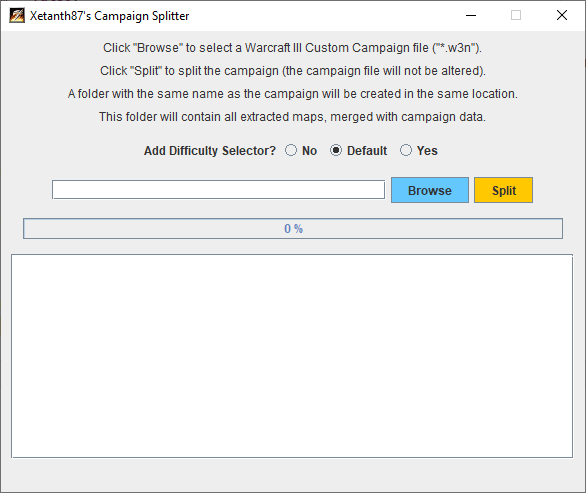
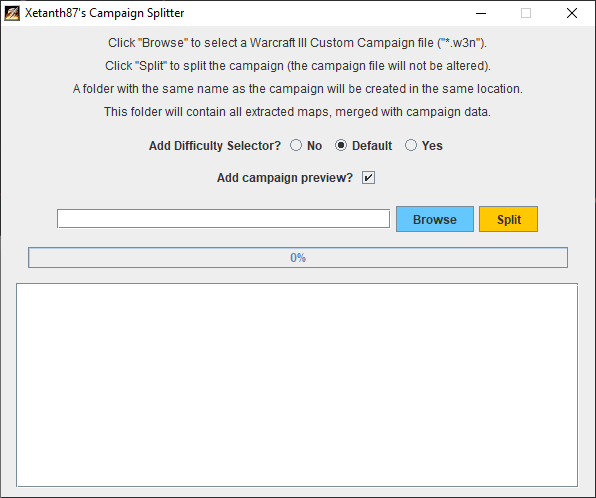
Add checkbox for campaign preview

diff --git a/src/main/java/net/xetanth87/campaignsplitter/SplitterFrame.java b/src/main/java/net/xetanth87/campaignsplitter/SplitterFrame.java
@@ -25,6 +25,7 @@ public class SplitterFrame extends JFrame {
 	private JTextArea taskOutput;
 	private XT87Utils.TriOption difficultySelectorOption = XT87Utils.TriOption.DEFAULT;
 	private ButtonGroup difficultySelectorGroup;
+	private JCheckBox campaignPreviewCheck = new JCheckBox();
 
 	public SplitterFrame() {
 		super(AUTHOR + "'s " + APP_TITLE);
@@ -32,13 +33,19 @@ public class SplitterFrame extends JFrame {
 		setResizable(false);
 		setDefaultCloseOperation(WindowConstants.EXIT_ON_CLOSE);
 		setLayout(new FlowLayout());
+
 		JPanel panel = new JPanel(new GridLayout(0, 1));
+		add(panel);
 		panel.add(new Label("Click \"" + browse.getText() + "\" to select a Warcraft III Custom Campaign file (\"*.w3n\").", Label.CENTER));
 		panel.add(new Label("Click \"" + split.getText() + "\" to split the campaign (the campaign file will not be altered).", Label.CENTER));
 		panel.add(new Label("A folder with the same name as the campaign will be created in the same location.", Label.CENTER));
 		panel.add(new Label("This folder will contain all extracted maps, merged with campaign data.", Label.CENTER));
-		add(panel);
+
+		JPanel optionsPanel = new JPanel(new GridLayout(0, 1));
+		add(optionsPanel);
+
 		panel = new JPanel();
+		optionsPanel.add(panel);
 		panel.add(new JLabel("Add Difficulty Selector?"));
 		difficultySelectorGroup = new ButtonGroup();
 		JRadioButton radioButton;
@@ -65,11 +72,20 @@ public class SplitterFrame extends JFrame {
 			panel.add(radioButton);
 			difficultySelectorGroup.add(radioButton);
 		}
-		add(panel);
+
+		panel = new JPanel();
+		optionsPanel.add(panel);
+		panel.setLayout(new FlowLayout(FlowLayout.CENTER, 5, 5));
+		panel.add(new JLabel("Add campaign preview?"));
+		campaignPreviewCheck.setSelected(true);
+		panel.add(campaignPreviewCheck);
+		campaignPreviewCheck.setToolTipText("Changes each map's preview to the campaign preview, hiding the minimap. (Recommended)");
+		optionsPanel.add(panel);
 
 		browse.addActionListener(new BrowseL());
 		split.addActionListener(new SplitL());
 		panel = new JPanel();
+		add(panel);
 		panel.setLayout(new FlowLayout(FlowLayout.CENTER, 5, 5));
 		panel.add(filePathField);
 		panel.add(browse);
@@ -78,27 +94,22 @@ public class SplitterFrame extends JFrame {
 		panel.add(split);
 		split.setFocusPainted(false);
 		split.setBackground(Color.ORANGE);
+
+		panel = new JPanel();
 		add(panel);
-
-		panel = new JPanel();
-		panel.setLayout(new FlowLayout(FlowLayout.CENTER, 5, 5));
-
-		panel = new JPanel();
 		bar = new JProgressBar();
 		bar.setValue(0);
 		bar.setMaximum(100);
 		bar.setStringPainted(true);
 		bar.setPreferredSize(new Dimension((int) (0.9f * getWidth()), bar.getPreferredSize().height));
-
 		panel.add(bar);
-		add(panel);
 
 		panel = new JPanel();
+		add(panel);
 		taskOutput = new JTextArea(12, 50);
 		taskOutput.setMargin(new Insets(5,5,5,5));
 		taskOutput.setEditable(false);
 		panel.add(new JScrollPane(taskOutput), BorderLayout.CENTER);
-		add(panel);
 
 		try {
 			UIManager.setLookAndFeel(UIManager.getSystemLookAndFeelClassName());
@@ -151,6 +162,7 @@ public class SplitterFrame extends JFrame {
 		browse.setEnabled(!running);
 		filePathField.setEditable(!running);
 		Enumeration<AbstractButton> e = difficultySelectorGroup.getElements();
+		campaignPreviewCheck.setEnabled(!running);
 		while (e.hasMoreElements()) {
 			e.nextElement().setEnabled(!running);
 		}
@@ -172,8 +184,8 @@ public class SplitterFrame extends JFrame {
 	}
 
 	private class FrameCampaignSplitter extends CampaignSplitter {
-		public FrameCampaignSplitter(File campFile, XT87Utils.TriOption difficultySelectorOption) throws IOException {
-			super(campFile, difficultySelectorOption);
+		public FrameCampaignSplitter(File campFile) throws IOException {
+			super(campFile);
 		}
 
 		@Override
@@ -231,14 +243,18 @@ public class SplitterFrame extends JFrame {
 		public void run() {
 			File file = new File(filePathField.getText());
 			try {
-				CampaignSplitter cs = new FrameCampaignSplitter(file, difficultySelectorOption);
+				CampaignSplitter cs = new FrameCampaignSplitter(file);
+				cs.difficultySelectorOption = difficultySelectorOption;
+				cs.campaignPreviewOption = campaignPreviewCheck.isSelected();
 				cs.splitCampaign();
 				String timeSpan = formatDuration(Duration.between(startTime, Instant.now()));
 				JOptionPane.showMessageDialog(null, "Campaign \"" + file.getName() + "\" has been split successfully! (" + timeSpan + ")", APP_TITLE, JOptionPane.INFORMATION_MESSAGE);
 			} catch (InterruptedException ex) {
 			} catch (Exception ex) {
 				try {
-					new CampaignSplitter(file, XT87Utils.TriOption.NO).removeTemporaryFiles();
+					CampaignSplitter cs = new CampaignSplitter(file);
+					cs.difficultySelectorOption = XT87Utils.TriOption.NO;
+					cs.removeTemporaryFiles();
 				} catch (IOException e) {
 					e.printStackTrace();
 				}

diff --git a/src/main/java/net/xetanth87/campaignsplitter/CampaignSplitter.java b/src/main/java/net/xetanth87/campaignsplitter/CampaignSplitter.java
@@ -33,7 +33,8 @@ public class CampaignSplitter {
 	public final File campFile;
 	public final String splitPath;
 	public int buttonCount;
-	public final XT87Utils.TriOption difficultySelectorOption;
+	public XT87Utils.TriOption difficultySelectorOption = XT87Utils.TriOption.DEFAULT;
+	public boolean campaignPreviewOption = false;
 	public JMpqEditor campEditor;
 	public W3F campaignData;
 	protected boolean initializedProgressBar = false;
@@ -70,14 +71,13 @@ public class CampaignSplitter {
 		return getImportsPath() + "/" + filename;
 	}
 
-	public CampaignSplitter(File campFile, XT87Utils.TriOption difficultySelectorOption) throws IOException {
+	public CampaignSplitter(File campFile) throws IOException {
 		if (!campFile.getName().endsWith(".w3n"))
 			throw new IllegalArgumentException("Argument must be a campaign file!");
 		this.campFile = campFile;
 		if (!campFile.exists())
 			throw new FileNotFoundException("Campaign file not found!");
 		splitPath = campFile.getParentFile().getAbsolutePath() + "/" + getWithoutExtension(campFile.getName());
-		this.difficultySelectorOption = difficultySelectorOption;
 	}
 
 	static class MapThread extends Thread {
@@ -182,7 +182,7 @@ public class CampaignSplitter {
 			campEditor.close();
 			MapInjector mi = new MapInjector(this, mapFile, i);
 			mi.withDifficultySelector = withDifficultySelector;
-			mi.withCampaignPreview = true;
+			mi.withCampaignPreview = campaignPreviewOption;
 			mi.addCampaignData();
 			if (i == 0) {
 				InitializeProgressBar(STEPS_CAMP_DATA + stepsPerMap * buttonCount);
@@ -213,7 +213,7 @@ public class CampaignSplitter {
 		}
 		CampaignSplitter cs = null;
 		try {
-			cs = new CampaignSplitter(new File(campaignPath), XT87Utils.TriOption.DEFAULT);
+			cs = new CampaignSplitter(new File(campaignPath));
 			cs.splitCampaign();
 		} catch (Exception e) {
 			e.printStackTrace();

diff --git a/src/main/java/net/xetanth87/campaignsplitter/MapInjector.java b/src/main/java/net/xetanth87/campaignsplitter/MapInjector.java
@@ -416,11 +416,13 @@ public class MapInjector {
 			cs.IncrementValueProgressBar(1);
 		}
 
-		System.out.println("Changing preview for map \"" + mapFile.getName() + "\".");
-		if (withCampaignPreview)
-		changePreview();
-		System.out.println("Finished changing preview for map \"" + mapFile.getName() + "\".");
-		cs.IncrementValueProgressBar(1);
+		if (withCampaignPreview) {
+			System.out.println("Changing preview for map \"" + mapFile.getName() + "\".");
+			if (withCampaignPreview)
+				changePreview();
+			System.out.println("Finished changing preview for map \"" + mapFile.getName() + "\".");
+			cs.IncrementValueProgressBar(1);
+		}
 
 		tempFile.delete();
 		System.out.println("Saving map \"" + mapFile.getName() + "\".");
